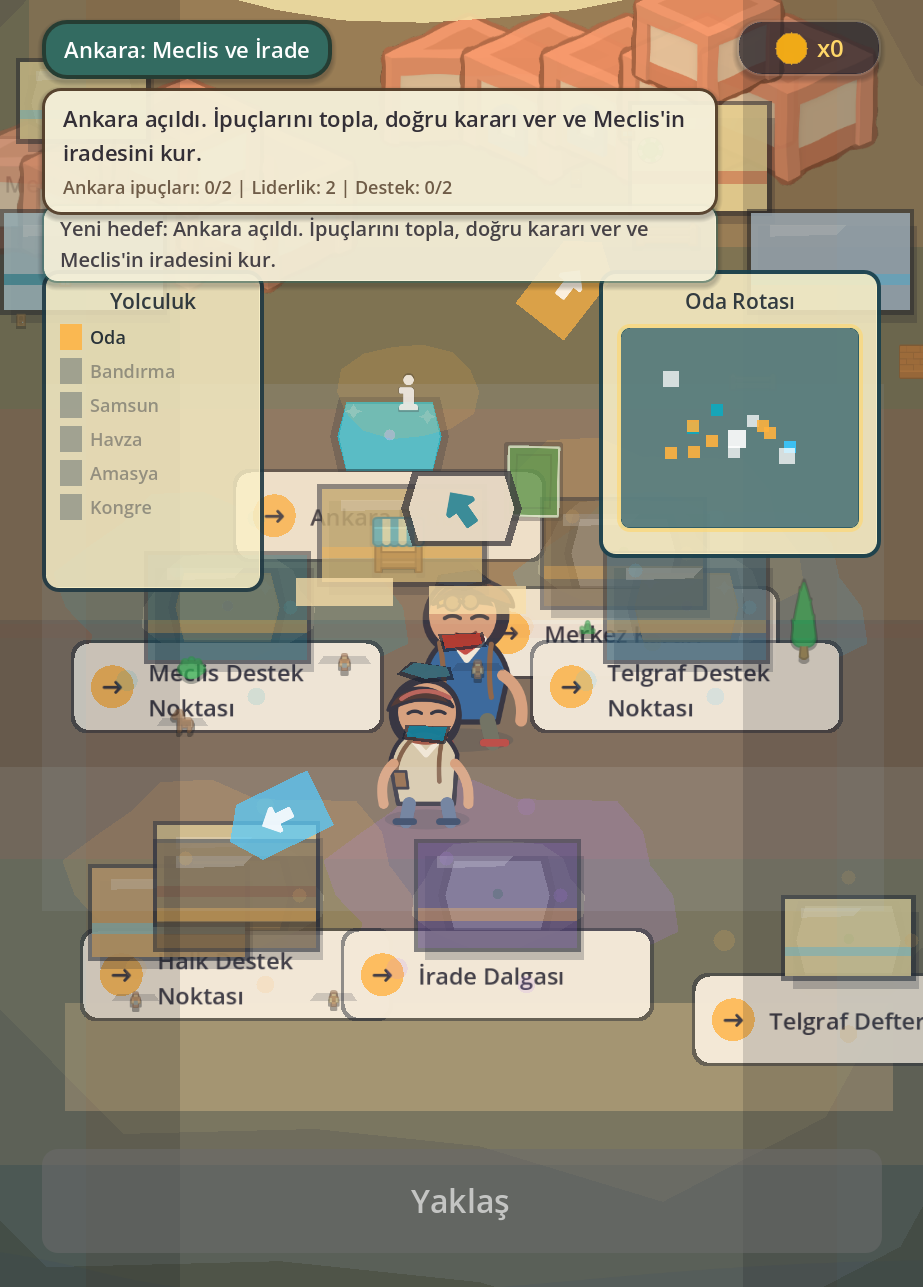
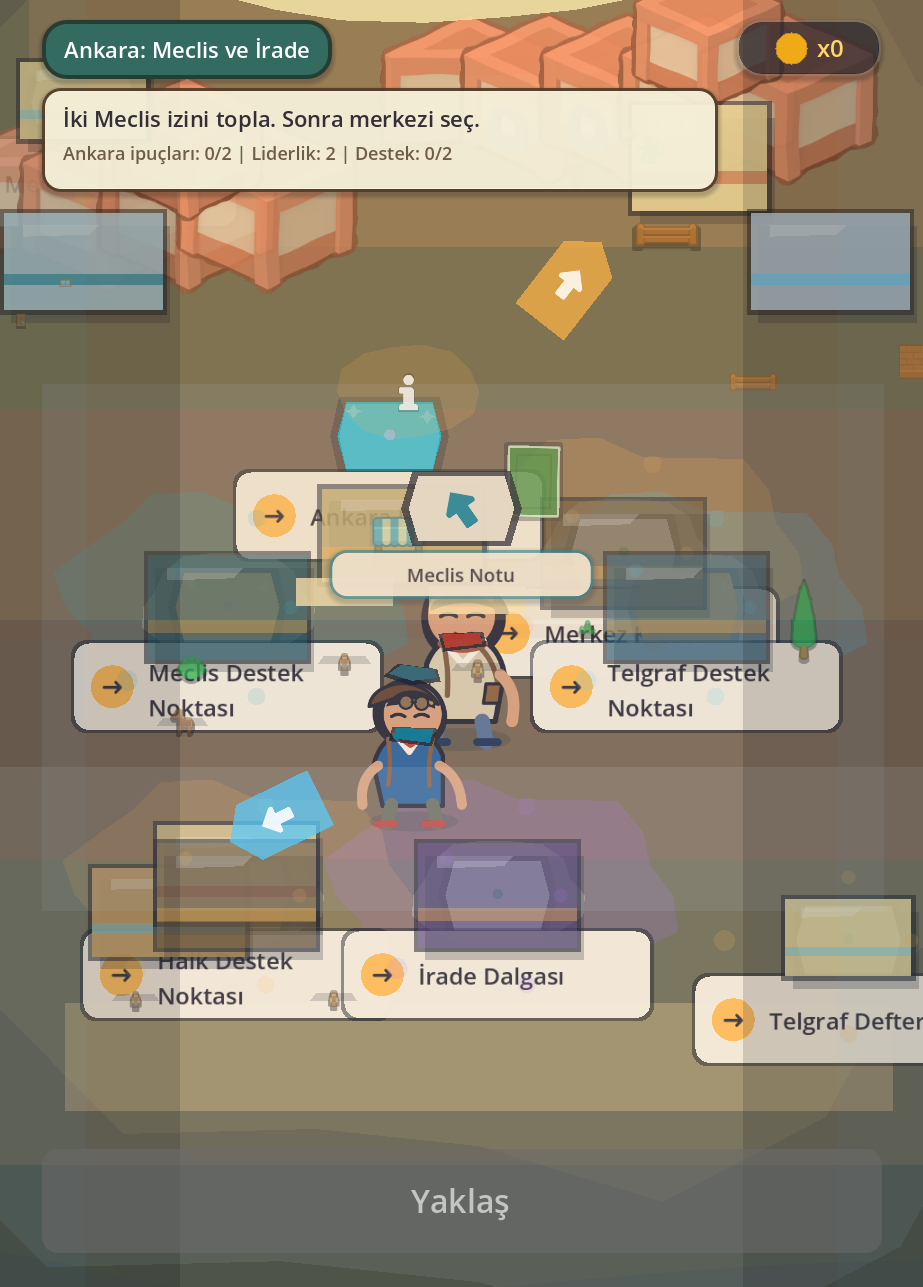
Finish P5 readability acceptance pass

Changed region(s): [[0.0303, 0.0622, 0.9707, 0.6527]]

diff --git a/docs/WORLD_ART_UPGRADE_PLAN.md b/docs/WORLD_ART_UPGRADE_PLAN.md
@@ -328,6 +328,17 @@ Beklenen ogrenim:
 - Bu slice'in capture'i `artifacts/renders/samsun/samsun_world_p5_probe.png` olarak alindi; ilk sonuc merkezi rota/marker akisini bozmadan daha taktil bir alt-yan derinlik verdigi icin `Samsun` ikinci kompozisyon kararina veya sonraki hedef zone gecisine hazir ara durum olarak not edildi.
 - `P5` ikinci rollout slice'inda `Samsun` alt-band kompozisyonu builder + marker + companion spot ekseninde tekrar dagitildi; `Halk` ve `Dalga` odaklari ayni yatay cizgiden ayrildi, `samsun.core` reaction spot'i spawn hattindan cekildi.
 - Aynı `artifacts/renders/samsun/samsun_world_p5_probe.png` capture'inin yenilenmis halinde merkez reaction copy kayboldu ve alt bolgedeki `Halk Destek Noktasi`, `Kararsizlik Dalgasi` ve `Cesaret Cicegi` etiketleri ayni karede ust uste binmeden okunabilir hale geldi; bu da `Samsun` rollout'unun ikinci slice icin kabul edilebilir ara ritme ulastigini gosterdi.
+- `P5` Samsun benchmark kapanisinda `verify_samsun_benchmark_contract.gd` eklendi; HUD hedefi tek cumleye indirildi, objective hint + location sign tekrari bastirildi ve `paperworld.samsun_people_plaza` / `paperworld.samsun_wave_gate` asset'leri alt-band marker kararlarina hizalandi.
+- Yenilenen `artifacts/renders/samsun/samsun_world_p5_probe.png` capture'i Samsun icin tek aktif hedef metni, temiz ust ekran ve ayrik `Halk` / `Dalga` okuma ritmini tekrar uretilebilir kabul kaniti olarak sabitledi.
 - `P5` ucuncu rollout slice'inda sonraki zone olarak `Ankara` secildi; ilk probe `artifacts/renders/ankara/ankara_world_p5_probe.png` capture'inda ust HUD bandinin `Meclis`, `Rehber`, `Telgraf` ve merkez karar/reaction yuzeylerini ezdigi goruldu.
 - Ayni slice icinde `world_marker.gd` ve `world_zone.gd` uzerinden Ankara'nin ust interactive anchor'lari daha alt bir oyun koridoruna cekildi; `Merkez Karari` ve `ankara.core` reaction spot'i de oyuncu spawn hattindan saga tasindi.
 - Yenilenen `artifacts/renders/ankara/ankara_world_p5_probe.png` capture'inda ust iki destek karti Journey/Minimap bandinin altina indi ve ilk probe'a gore merkez reaction baskisi azaldi; Ankara rollout'u birinci slice sonunda ikinci mikro kompozisyon veya sonraki zone gecisi icin kabul edilebilir ara ritme geldi.
+- Ankara ikinci mikro slice'inda owner'in marker koordinati degil yan HUD footprint'i oldugu teyit edildi; `world_ui.gd` tarafinda route ve minimap panelleri `ankara`, `sakarya` ve `final` icin bastirilarak ayni probe capture'inda `Meclis Destek Noktasi` ve `Telgraf Destek Noktasi` kartlari uzerindeki panel baskisi kaldirildi.
+- Bu yenileme sonrasi `artifacts/renders/ankara/ankara_world_p5_probe.png` capture'i ust objective/status alani disinda ek yan HUD bindirmesi olmadan yeniden uretildi; Ankara rollout'u ikinci mikro slice sonunda daha temiz oyun koridoru ile sonraki zone secimine hazir duruma geldi.
+- Ankara sonrasi dorduncu rollout anchor'i olarak `Sakarya` probe'u alindi; ilk `artifacts/renders/sakarya/sakarya_world_p5_probe.png` capture'inda `Karargah Destek Noktasi` ve `Telgraf Destek Noktasi` kartlarinin ekran kenarina fazla dayandigi goruldu.
+- Ilk Sakarya mikro slice'inda `world_marker.gd` ve `world_zone.gd` uzerinden bu iki support anchor'i iceri/alti banda cekildi; ayni probe capture'inin yenilenmis halinde iki uzun destek karti kenar kirpilmasi olmadan okunur hale geldi.
+- Sonraki rollout anchor'i olarak `Final` probe'u alindi; ilk `artifacts/renders/final/final_world_p5_probe.png` capture'inda `Meclis Destek Noktasi` ve `Zafer Destek Noktasi` kartlarinin ekran kenarina fazla dayandigi goruldu.
+- Ilk Final mikro slice'inda bu iki support anchor'i `world_marker.gd` ve `world_zone.gd` uzerinden iceri cekildi; ayni zone'daki ikinci mikro slice'ta `Cumhuriyet Notu` ve `Gelecek Defteri` clue anchor'lari da discovery cluster/reflection yuzeyleriyle birlikte iceri alindi.
+- Yenilenen `artifacts/renders/final/final_world_p5_probe.png` capture'inda Final support ve clue kartlari kenar kirpilmasi olmadan okunur hale geldi; rollout bu zone icin kabul edilebilir bir ara ritme ulasarak son acceptance/regression dalgasina daha yakin bir duruma geldi.
+- P5 acceptance/regression turunda `verify_samsun_benchmark_contract.gd`, `verify_p5_late_zone_benchmark_contract.gd` ve `verify_capture_world_render_contract.gd` birlikte kosuldu; Samsun benchmark, gec zone HUD/readability ve capture reproducibility kapilari ayni turda yesile dondu.
+- Bu turdaki son fix, `hud_bar.gd` icinde objective hint gorunurlugunu objective metni degismese de guncellemek oldu; boylece save'den donen Ankara/Sakarya/Final oturumlarinda duplike objective hint kalintisi benchmark seviyesinde kapatildi.

diff --git a/docs/EXECUTION_PACKAGES_PLAN.md b/docs/EXECUTION_PACKAGES_PLAN.md
@@ -43,8 +43,8 @@ Kural:
 | P2 | tamamlandi | Teknik art sozlesmesi, token sahipligi ve pipeline akisi yazildi | P3 onayi bekleniyor |
 | P3 | tamamlandi | Bandirma destek-prop temizlik ve kompozisyon sakinlestirme turu kapatildi, temiz capture sabitlendi | P4 kontrast kalibrasyonu |
 | P4 | tamamlandi | Bandirma HUD, guidance/marker, kisa kopya, capture contract ve location sign de-stack kalibrasyonu `bandirma_world_p4_hud.png` ile tekrar uretilebilir sekilde dogrulandi | P5 rollout onayi |
-| P5 | devam ediyor | Samsun ikinci slice'i kapatildiktan sonra Ankara ilk rollout probe'u alindi; ust HUD bandina giren support/guide anchor'lari asagi cekilerek yenilenen `ankara_world_p5_probe.png` capture'inda ust kart yigisi ve merkez reaction baskisi azaltildi | Ankara icin ikinci mikro kompozisyon veya sonraki hedef zone karari |
-| P6 | bekliyor | Kabul/regression paketi son dalga | P3-P5 sonrasi |
+| P5 | tamamlandi | Samsun benchmark kontrati eklendi; Ankara'da yan HUD footprint'i bastirildi, Sakarya'da support kartlari iceri cekildi ve Final'de hem support hem clue anchor'lari iceri alinip rollout capture'lari okunur ara ritme tasindi | P6 kabul kapisi |
+| P6 | tamamlandi | `verify_samsun_benchmark_contract`, `verify_p5_late_zone_benchmark_contract`, `verify_capture_world_render_contract` ve parse check ayni acceptance turunda yesile dondu | Sonraki world-art dalgasi veya commit/push |
 | P7 | tamamlandi | Android export audit tablosu ve eksik config listesi yazildi | P8 checklist uygulamasina giris |
 | P8 | tamamlandi | Android smoke checklist dosyasi ve akış matrisi yazildi | P9 safe-area/system bar uygulamasina giris |
 | P9 | tamamlandi | 1080x1920 accepted baseline'lar yenilendi ve UI regression suite tekrar yesile dondu | P10 lifecycle veya P11 cihaz gozlemi |
@@ -56,7 +56,7 @@ Kural:
 
 - Tamamlanan ilk paket: `P1`
 - Tamamlanan ikinci paket: `P2`
-- Aktif world art paketi: `P5` onayi bekleniyor
+- Aktif world art paketi: acceptance turu kapandi
 - Tamamlanan Android audit paketi: `P7`
 - Tamamlanan Android checklist paketi: `P8`
 - Aktif Android lifecycle paketi: `P10`